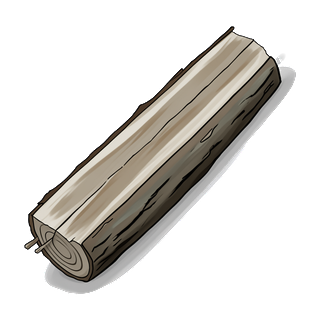
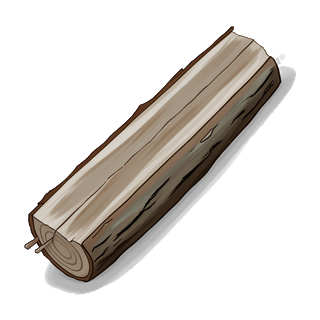
乾いた薪の注文から、出ない木口の割れを外して絵を作り直す (#2457)
* 乾いた薪の注文から、出ない木口の割れを外して絵を作り直す

Claude-Session: https://claude.ai/code/session_01VWdnyYT5gZpHGYcz575iKR

* 設えの点あたり手間の検査に、収支表を本体で組むぶんの上限を名乗らせる

CIで2回続けて1件あたりの上限（5秒）を越えて落ちた。乾いた薪の検査（#2433）と同じ手当て。

Claude-Session: https://claude.ai/code/session_01VWdnyYT5gZpHGYcz575iKR

---------

diff --git a/tests/world-codex/furnishingsYaml.test.ts b/tests/world-codex/furnishingsYaml.test.ts
@@ -155,7 +155,9 @@ describe('里心を抑える設え(src/assets/world-codex/furnishings.yaml)', ()
       Math.max(...minutes) / Math.min(...minutes),
       `点あたりの手間の開き（${readout}）`,
     ).toBeLessThanOrEqual(COMFORT_COST_SPREAD_LIMIT);
-  });
+    // 収支表を検査の本体で組む分（issue #2446）が乗るので、混み合った回には1件あたりの上限を越える。
+    // 上限とその名乗り方は `vite.config.ts` の `testTimeout` のコメント（issue #2376）。
+  }, 30_000);
 
   it('同じ物を並べても効く（連れと違って積み上がる）', () => {
     // 設えは積むほど効いてよく、効き目は掛けた手間に比例させてある（furnishings.yaml）ので、
